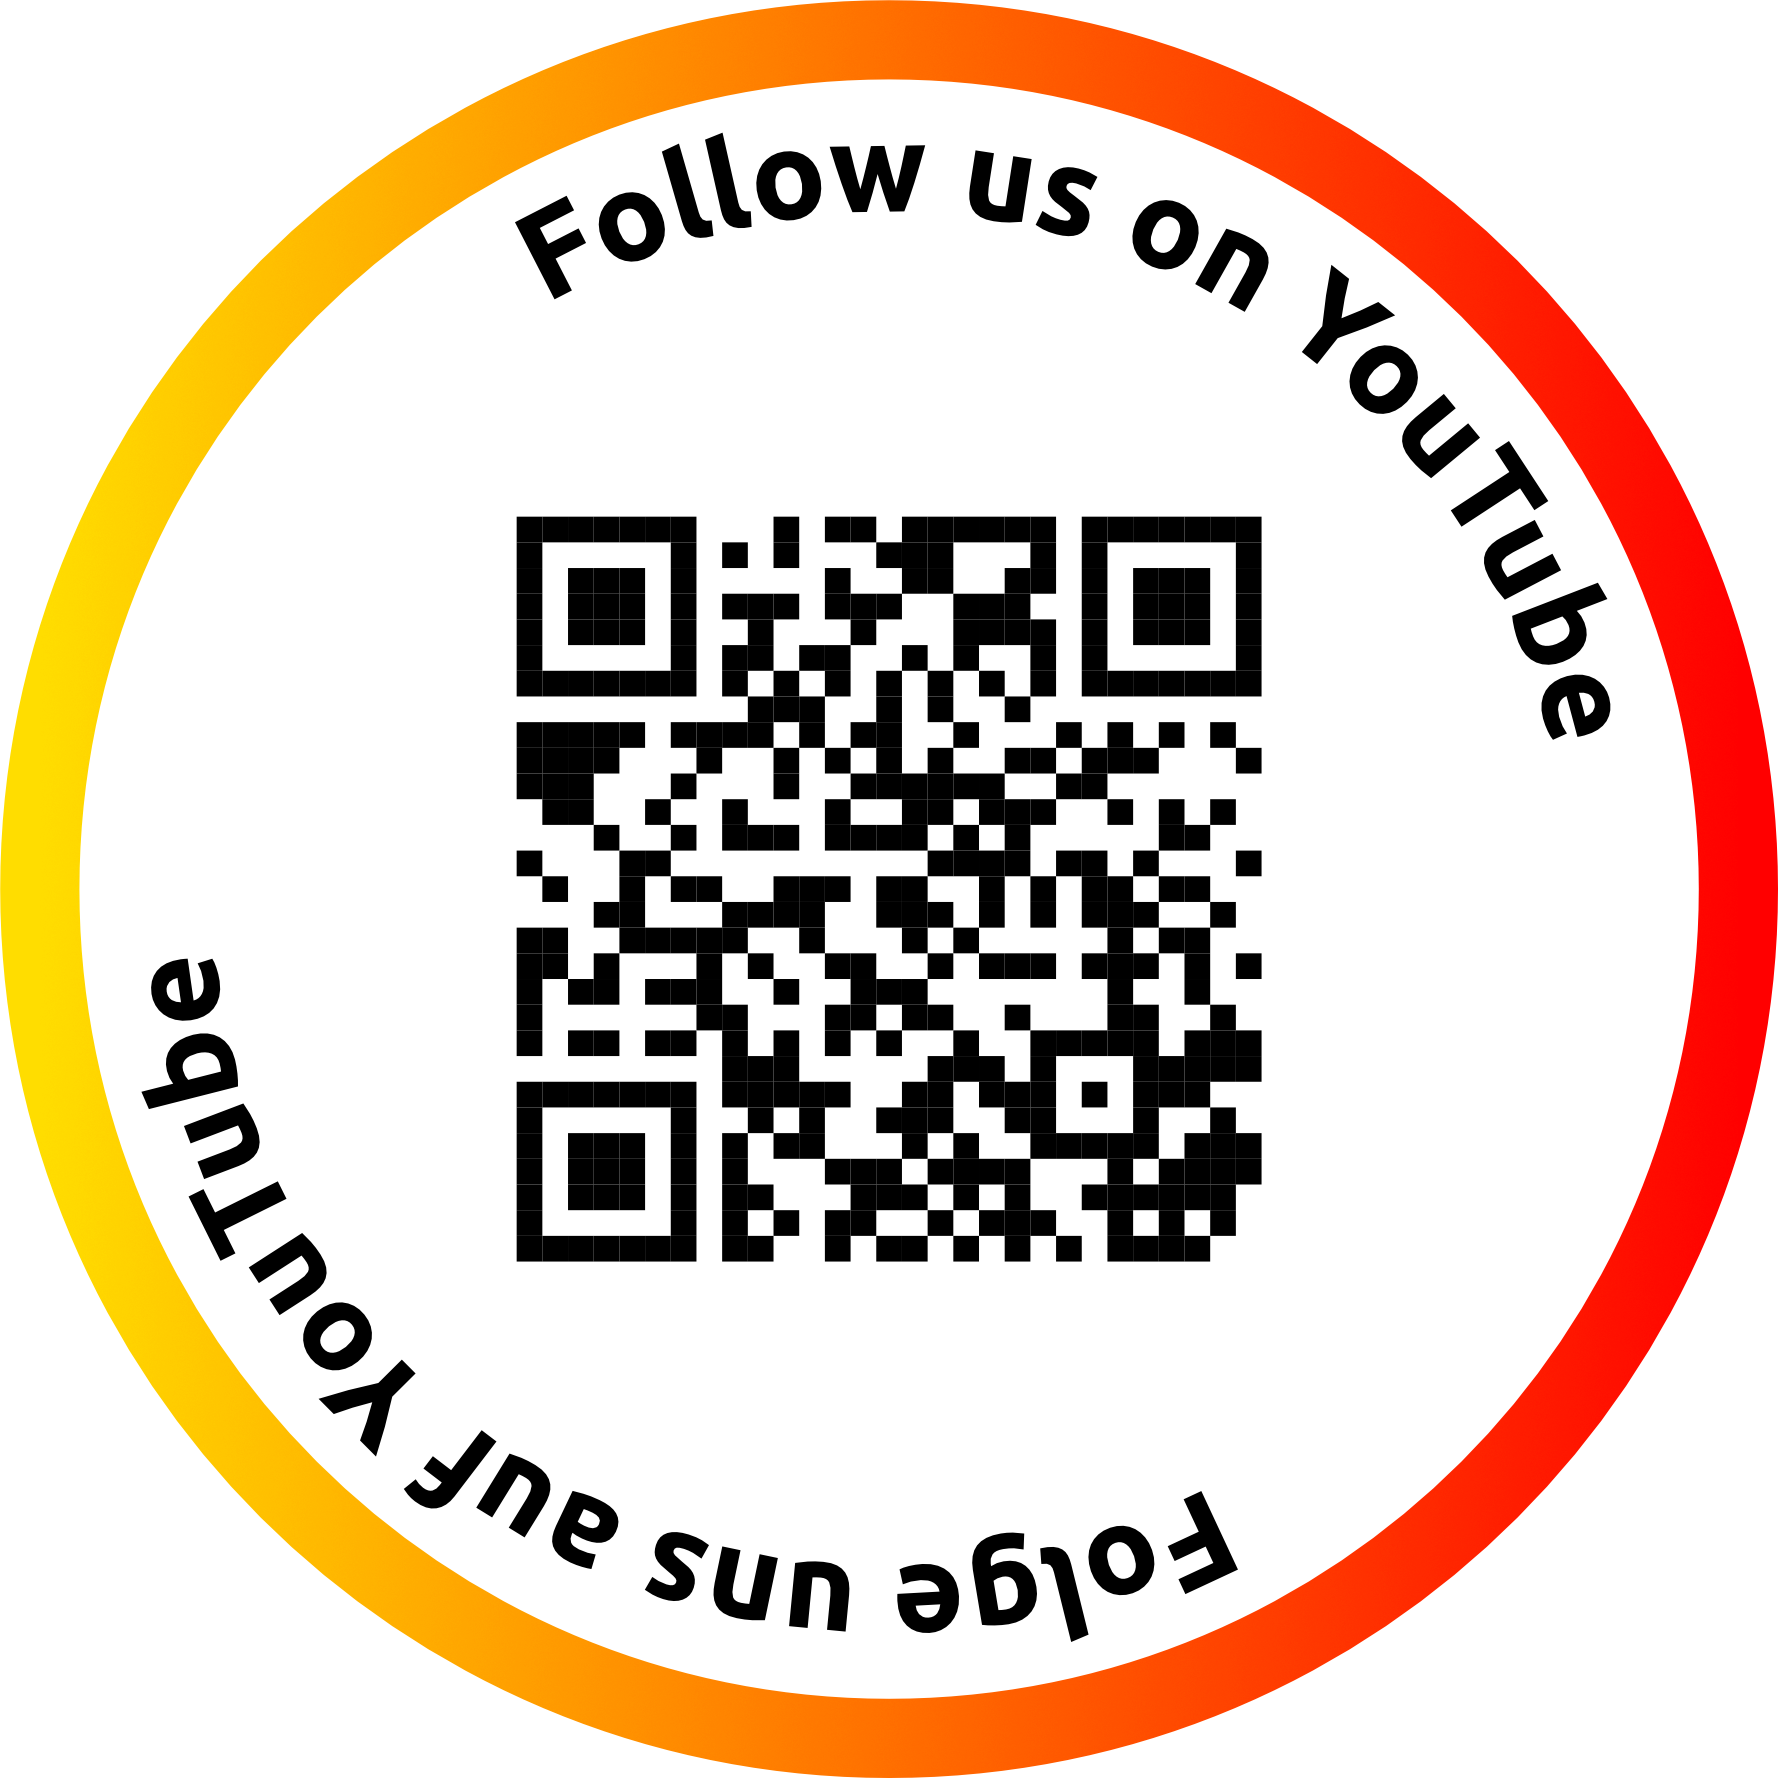
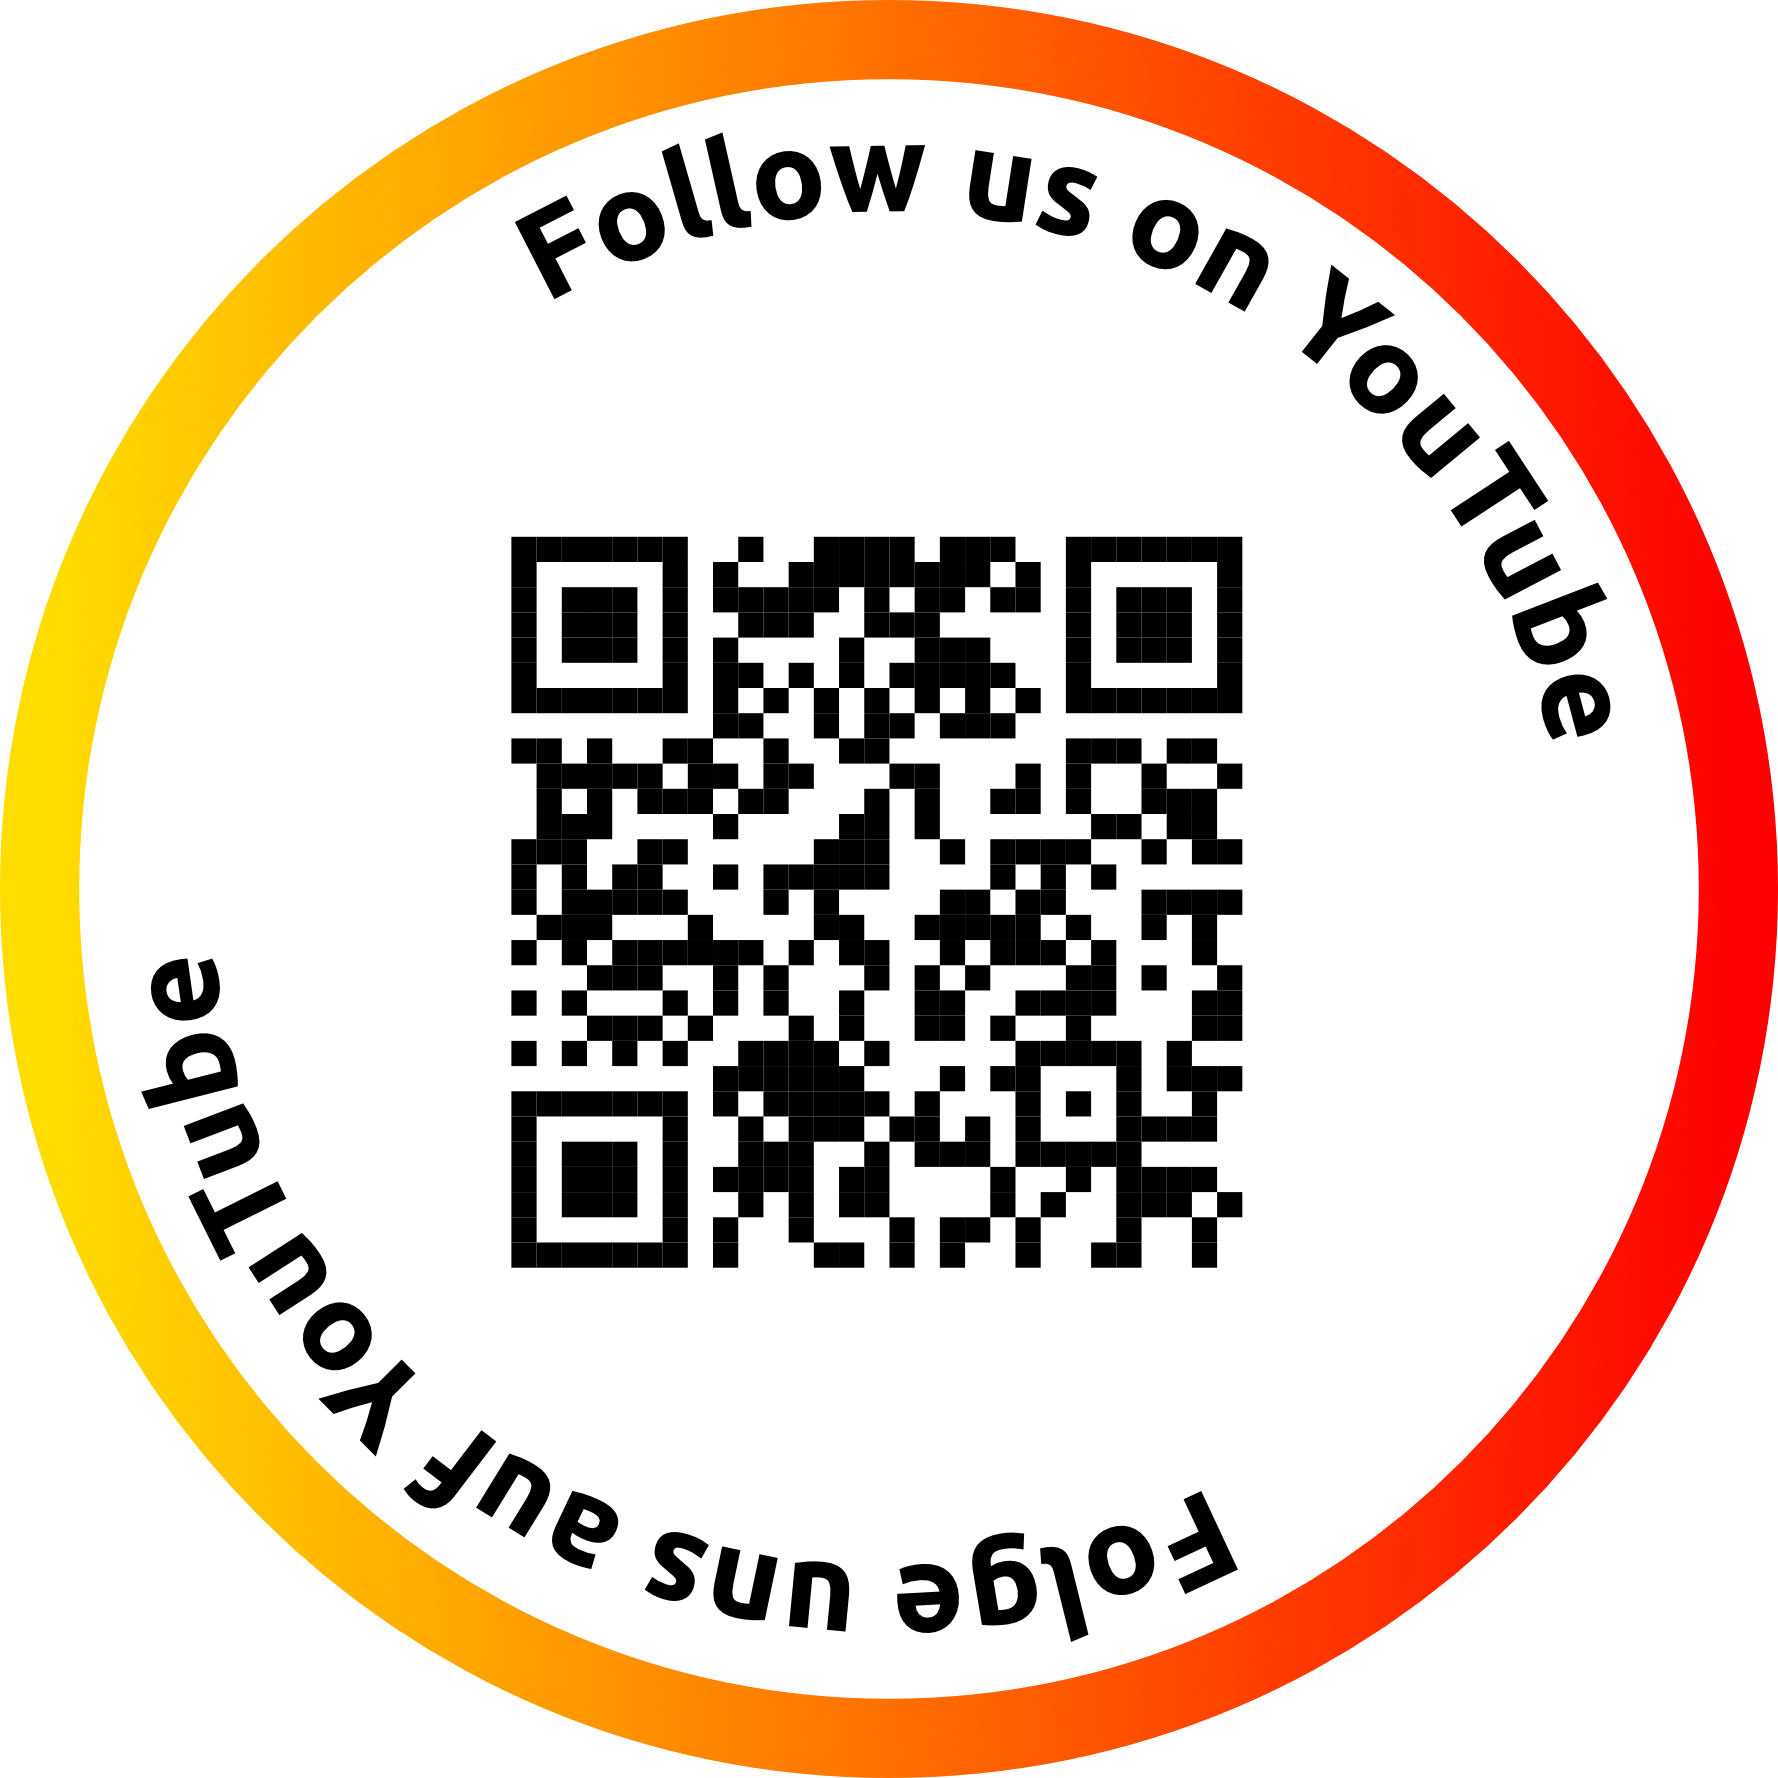
changed qr code

Changed region(s): [[0.2784, 0.2784, 0.7115, 0.7115]]

diff --git a/index.html b/index.html
@@ -32,6 +32,6 @@
 </div>
   </div>
   <img src="media/Youtube.png" alt="Youtube Logo" id="main-logo" class="logo">
-  <img src="media/rheinfelden-live.png" alt="Logo oben rechts" class="logo-fixed">
+  <img src="media/rheinfelden-live-direktlink.png" alt="Logo oben rechts" class="logo-fixed">
 </body>
 </html>
